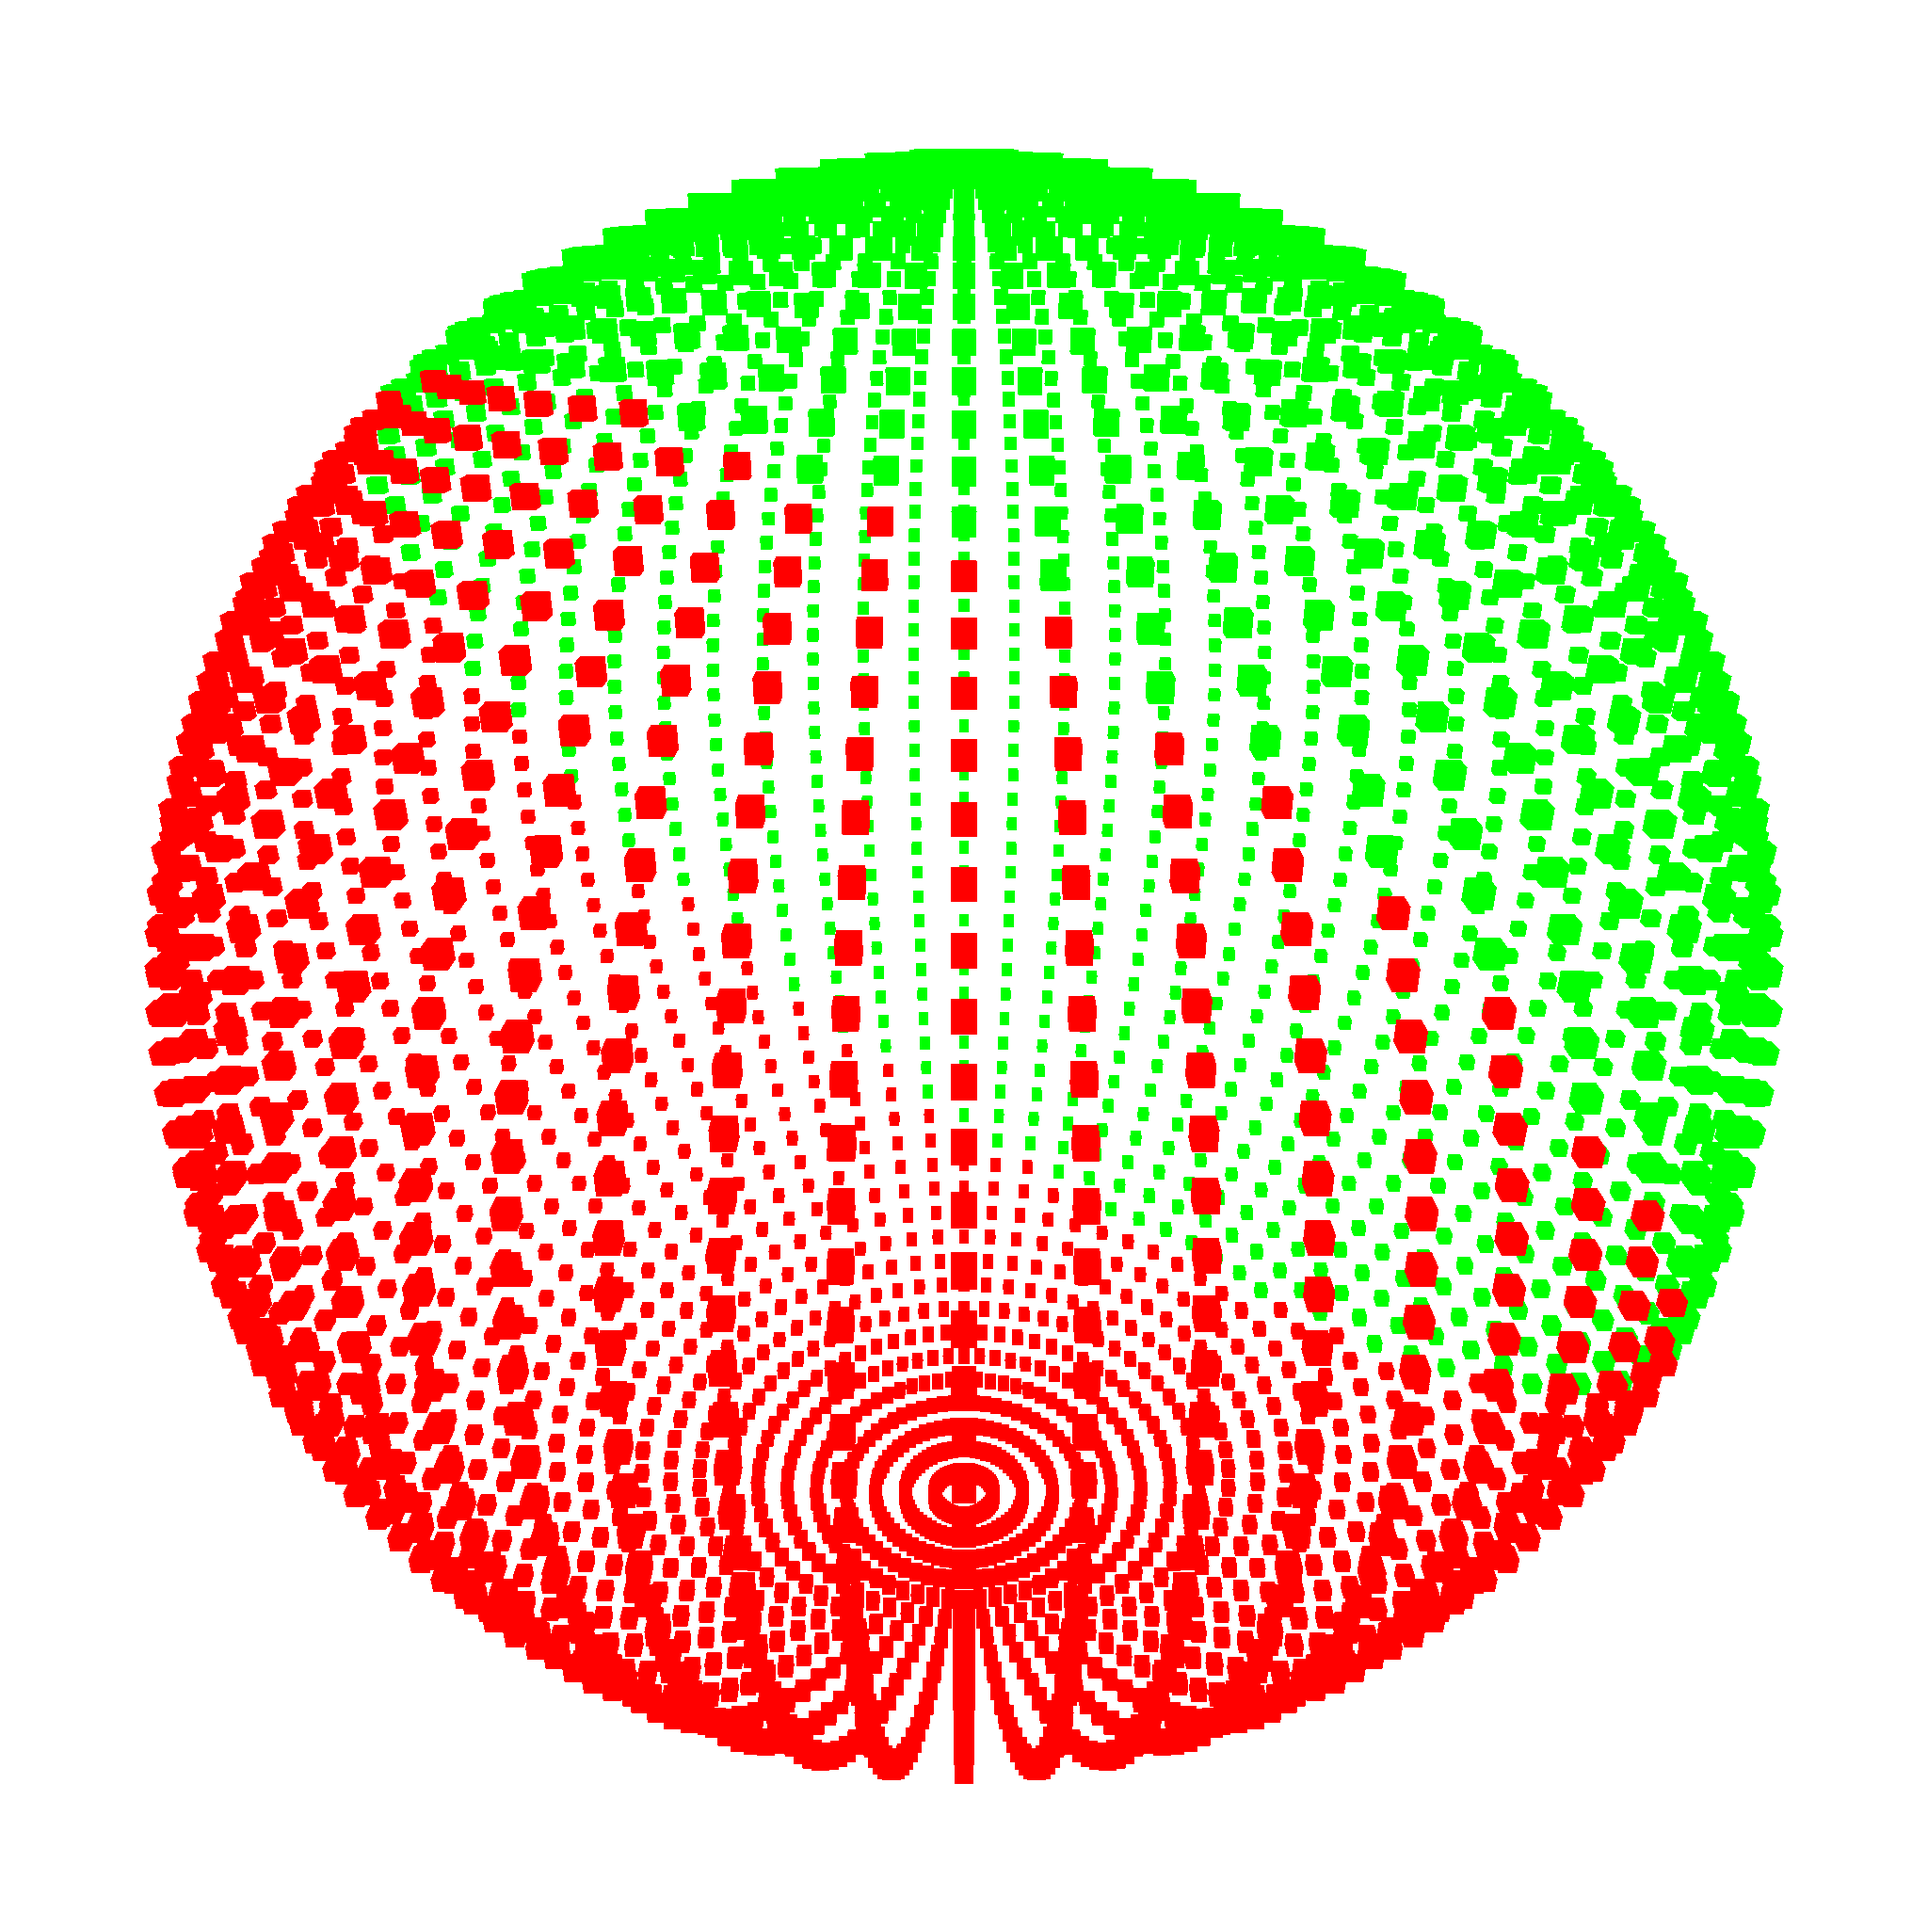
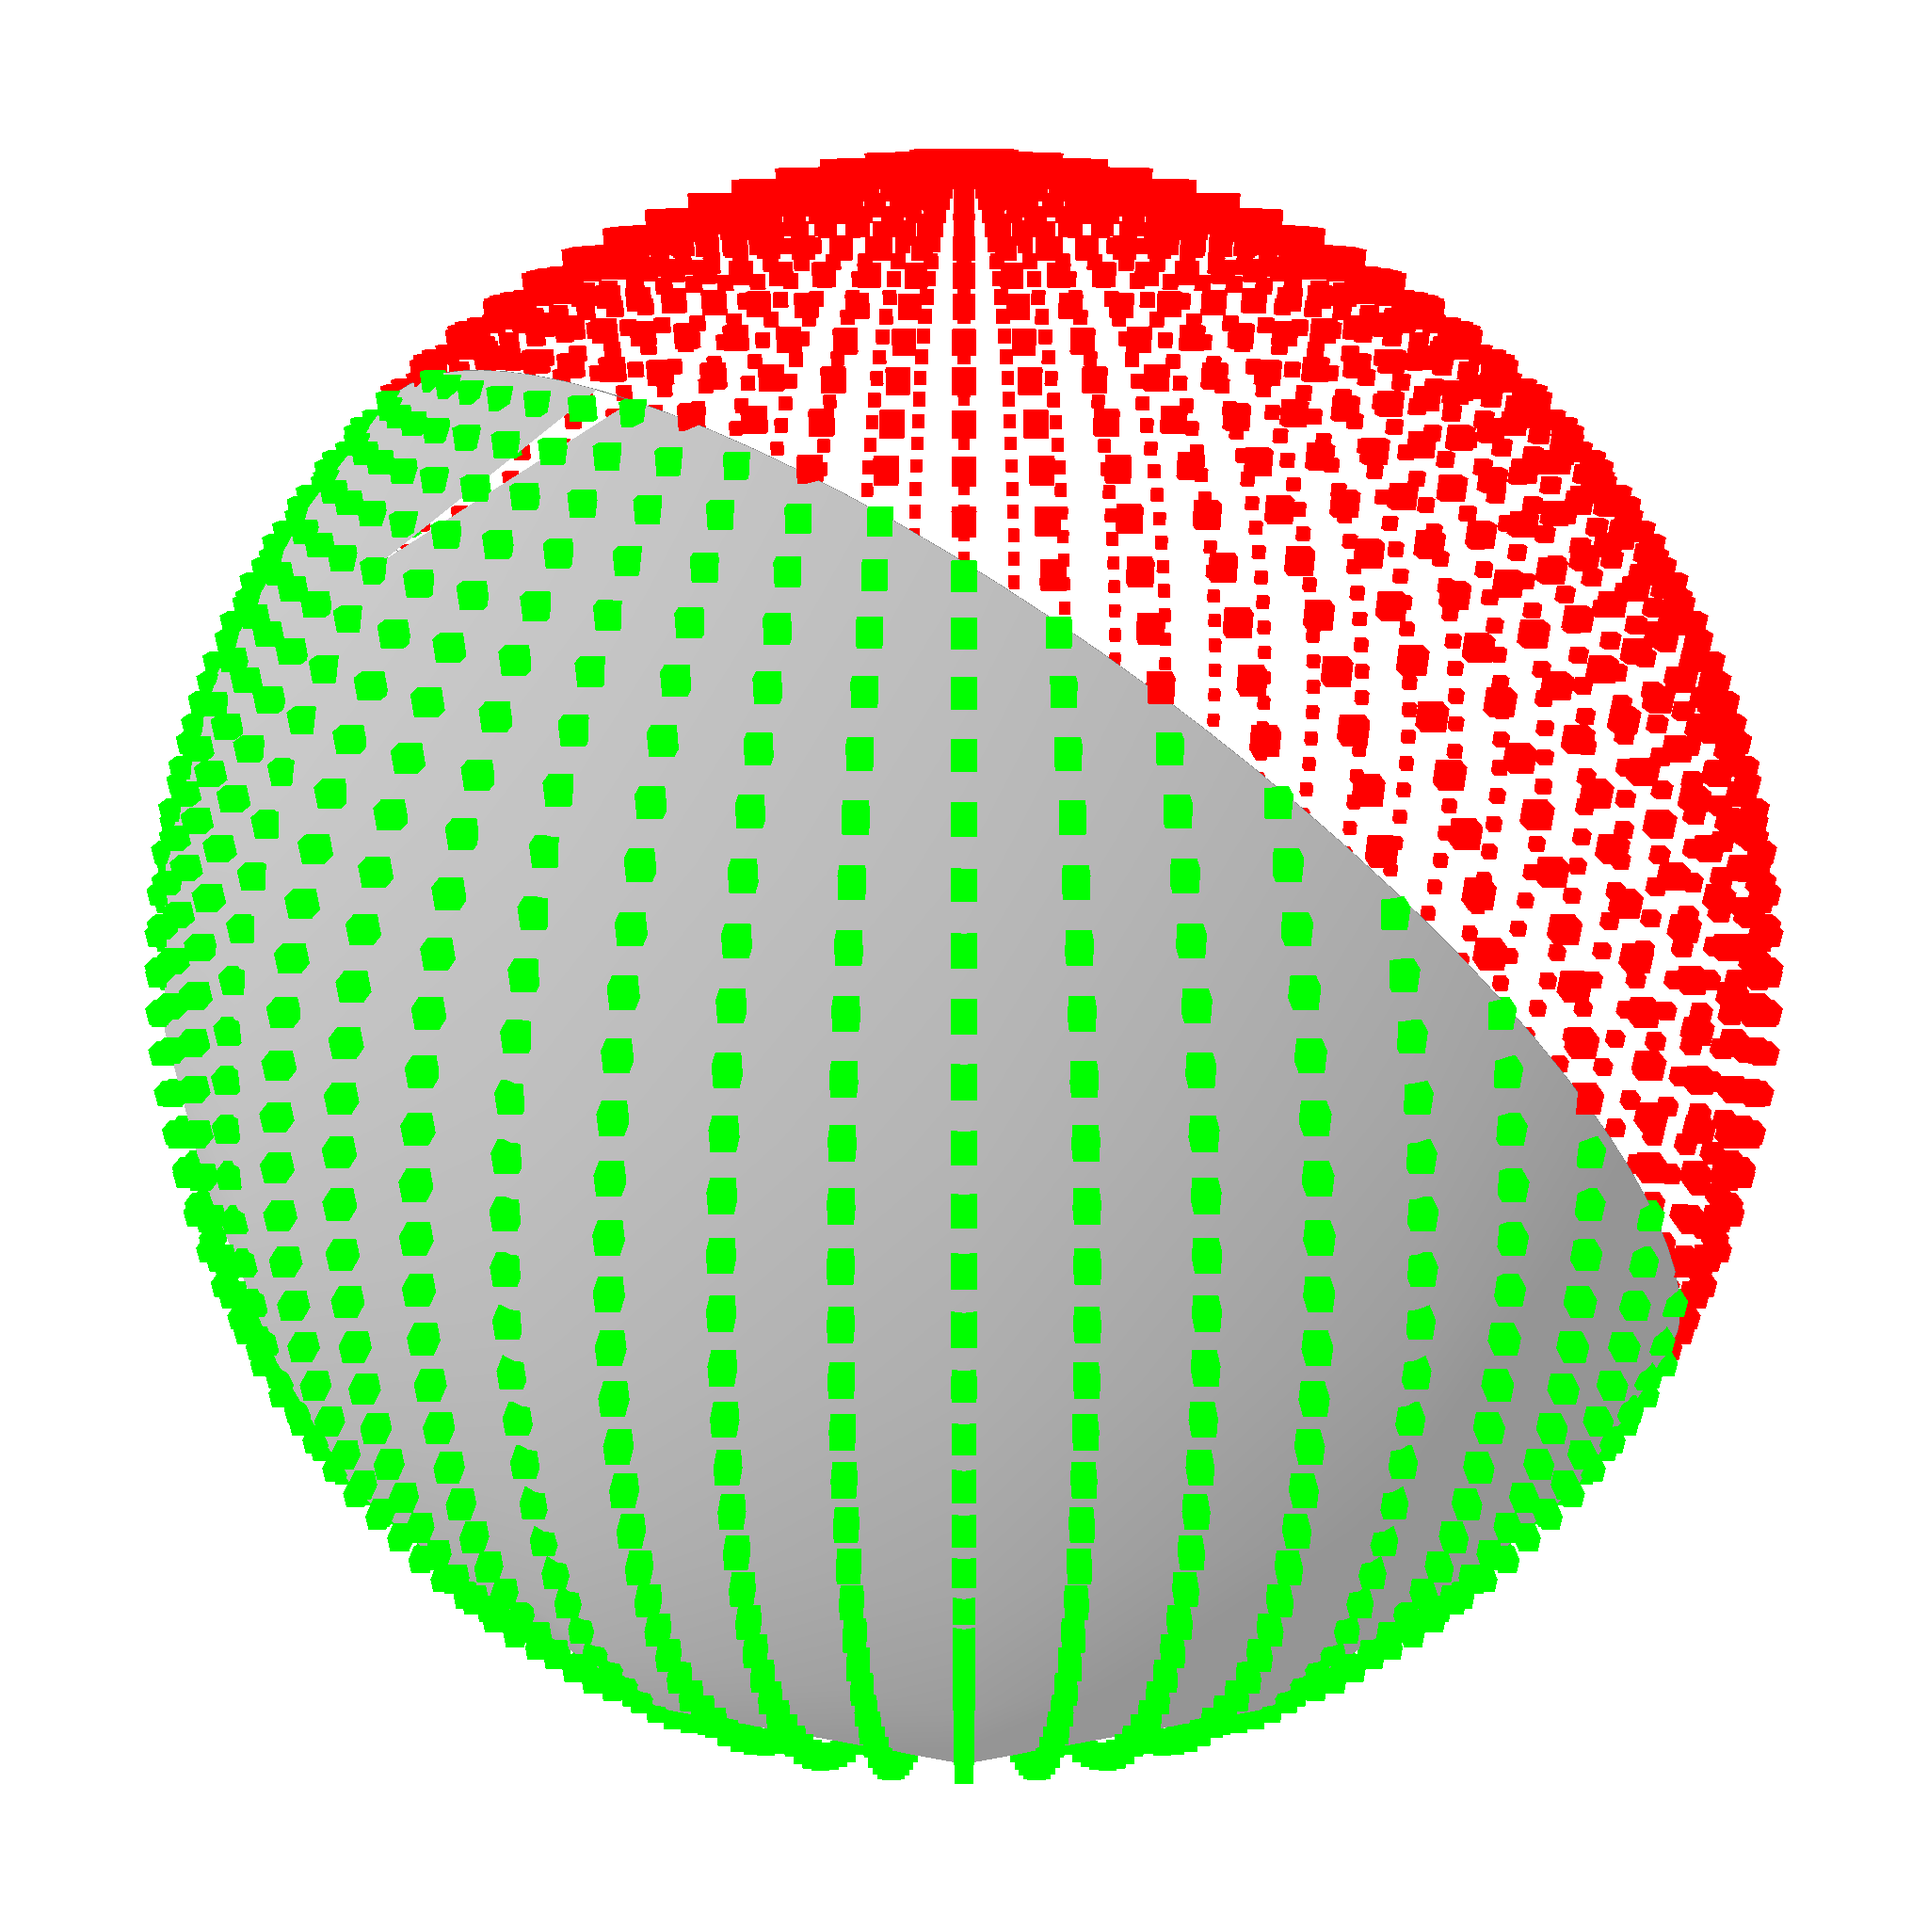
Added topology containment

diff --git a/crates/geop-topology/src/topology/volume/mod.rs b/crates/geop-topology/src/topology/volume/mod.rs
@@ -9,19 +9,23 @@ use super::{
 
 #[derive(Clone, Debug)]
 pub struct Volume {
-    pub boundary: Shell,   // Normal pointing outwards
-    pub holes: Vec<Shell>, // Normal pointing inwards
+    pub boundary: Shell,      // Normal pointing outwards
+    pub cavities: Vec<Shell>, // Normal pointing inwards
 }
 
 impl Volume {
-    pub fn new(boundary: Shell, holes: Vec<Shell>) -> Volume {
-        Volume { boundary, holes }
+    pub fn new(boundary: Shell, cavities: Vec<Shell>) -> Volume {
+        Volume { boundary, cavities }
     }
 
     pub fn transform(&self, transform: Transform) -> Volume {
         Volume {
             boundary: self.boundary.transform(transform),
-            holes: self.holes.iter().map(|h| h.transform(transform)).collect(),
+            cavities: self
+                .cavities
+                .iter()
+                .map(|h| h.transform(transform))
+                .collect(),
         }
     }
 
@@ -29,7 +33,7 @@ impl Volume {
         let mut faces = Vec::<Face>::new();
 
         faces.extend(self.boundary.faces.clone());
-        for hole in self.holes.iter() {
+        for hole in self.cavities.iter() {
             faces.extend(hole.faces.clone());
         }
         return faces;
@@ -39,7 +43,7 @@ impl Volume {
         if shell_point_contains(&self.boundary, p) != FacePointContains::Outside {
             return self.boundary.normal(p);
         }
-        for hole in self.holes.iter() {
+        for hole in self.cavities.iter() {
             if shell_point_contains(hole, p) != FacePointContains::Outside {
                 return hole.normal(p);
             }

diff --git a/crates/modern-brep-kernel-book/src/graphics/topology/shell.rs b/crates/modern-brep-kernel-book/src/graphics/topology/shell.rs
@@ -1,0 +1,29 @@
+#[cfg(test)]
+mod tests {
+    use crate::tests::renderer;
+    use geop_geometry::points::point::Point;
+    use geop_topology::{
+        primitive_objects::volumes::cube::primitive_cube,
+        topology::scene::{Color, Scene},
+    };
+    use geop_wgpu::headless_renderer::HeadlessRenderer;
+    use rstest::rstest;
+
+    #[rstest]
+    async fn test_shell1(#[future] renderer: Box<HeadlessRenderer>) {
+        let mut scene = Scene::new(vec![], vec![], vec![], vec![]);
+        scene
+            .volumes
+            .push((primitive_cube(1.0, 1.0, 1.0), Color::white()));
+        let mut renderer = renderer.await;
+        renderer
+            .render_to_file(
+                &scene,
+                false,
+                false,
+                Point::new(2.0, -2.0, 2.0),
+                std::path::Path::new("src/generated_images/topology/shell1.png"),
+            )
+            .await;
+    }
+}

diff --git a/crates/modern-brep-kernel-book/src/graphics/topology/face_contains.rs b/crates/modern-brep-kernel-book/src/graphics/topology/face_contains.rs
@@ -24,7 +24,7 @@ mod tests {
         let mut face = primitive_sphere(Point::new_zero(), 1.0);
         face.boundary = Some(Contour::new(vec![primitive_circle(
             Point::new_zero(),
-            Point::new(0.5, 0.5, 0.5),
+            -Point::new(0.5, 0.5, 0.5),
             1.0,
         )]));
 
@@ -37,6 +37,7 @@ mod tests {
                 FacePointContains::NotOnSurface => scene.points.push((p, Color::black())),
             };
         }
+        scene.faces.push((face, Color::white()));
 
         renderer
             .await
@@ -81,6 +82,7 @@ mod tests {
             };
         }
 
+        scene.faces.push((face, Color::white()));
         renderer
             .await
             .render_to_file(
@@ -129,6 +131,7 @@ mod tests {
             };
         }
 
+        scene.faces.push((face, Color::white()));
         renderer
             .await
             .render_to_file(

diff --git a/crates/geop-rasterize/src/volume.rs b/crates/geop-rasterize/src/volume.rs
@@ -16,7 +16,7 @@ pub fn rasterize_volume_into_triangle_list(volume: &Volume, color: Color) -> Tri
         buffer.join(&face_buffer);
     }
 
-    for hole in volume.holes.iter() {
+    for hole in volume.cavities.iter() {
         for face in hole.faces.iter() {
             println!("Rasterizing face: {}", face);
             let face_buffer = rasterize_face_into_triangle_list(face, color);
@@ -35,7 +35,7 @@ pub fn rasterize_volume_into_line_list(volume: &Volume, color: Color) -> EdgeBuf
         buffer.join(&face_buffer);
     }
 
-    for hole in volume.holes.iter() {
+    for hole in volume.cavities.iter() {
         for face in hole.faces.iter() {
             let face_buffer = rasterize_face_into_line_list(face, color);
             buffer.join(&face_buffer);

diff --git a/crates/modern-brep-kernel-book/src/graphics/topology/mod.rs b/crates/modern-brep-kernel-book/src/graphics/topology/mod.rs
@@ -2,3 +2,4 @@ pub mod contours;
 pub mod edges;
 pub mod face;
 pub mod face_contains;
+pub mod shell;

diff --git a/crates/modern-brep-kernel-book/src/chapter_3_topology_containment.md b/crates/modern-brep-kernel-book/src/chapter_3_topology_containment.md
@@ -1,7 +1,20 @@
 # Containment
 
+The crate also allows for containment checks for every topological structure. They work by ray casting and checking the normal at the intersection with the boundary. This also works for edge cases when the casted ray hits a corner.
 
-## Checking if something is inside or outside a contour
+This works for various faces. Red means outside, green means inside, blue means on the edge, and gray means on the corner.
+
+![Containment](./generated_images/topology/face_contains_rectangle.png)
+
+![Containment](./generated_images/topology/face_contains_rectangle2.png)
+
+![Containment](./generated_images/topology/face_contains.png)
+
+And also for various volumes.
+
+TODO: Add images
+
+## Why cant we just count the intersections?
 
 Imagine we are at a corner of a contour. We want to check if a point is inside or outside the contour. We can do this by drawing a line from the point to the corner (ray). If the line crosses the contour an odd number of times, the point is inside the contour. If the line crosses the contour an even number of times, the point is outside the contour.
 

diff --git a/crates/modern-brep-kernel-book/src/chapter_3_topology_volumes.md b/crates/modern-brep-kernel-book/src/chapter_3_topology_volumes.md
@@ -1,1 +1,14 @@
 # Volumes
+
+A volume defined by a shell, which is the boundary of the volume. Additionally, it can have cavities, which are also defined by a shell.
+
+```rust
+pub struct Volume {
+    pub boundary: Shell,   // Normal pointing outwards
+    pub cavities: Vec<Shell>, // Normal pointing inwards
+}
+```
+
+Caveties are only visible in cross-section view, which is not yet implemented.
+
+![Shell](./generated_images/topology/shell1.png)

diff --git a/crates/modern-brep-kernel-book/src/chapter_3_topology_shells.md b/crates/modern-brep-kernel-book/src/chapter_3_topology_shells.md
@@ -1,1 +1,11 @@
 # Shells
+
+Shells are a collection of faces that together form a closed space. They have to be watertight, meaning that there are no holes in the shell. This does not mean a shell cannot represent a drill hole, but that the inner side of the drill hole is also represented by a face.
+
+```rust
+pub struct Shell {
+    pub faces: Vec<Face>,
+}
+```
+
+![Shell](./generated_images/topology/shell1.png)
